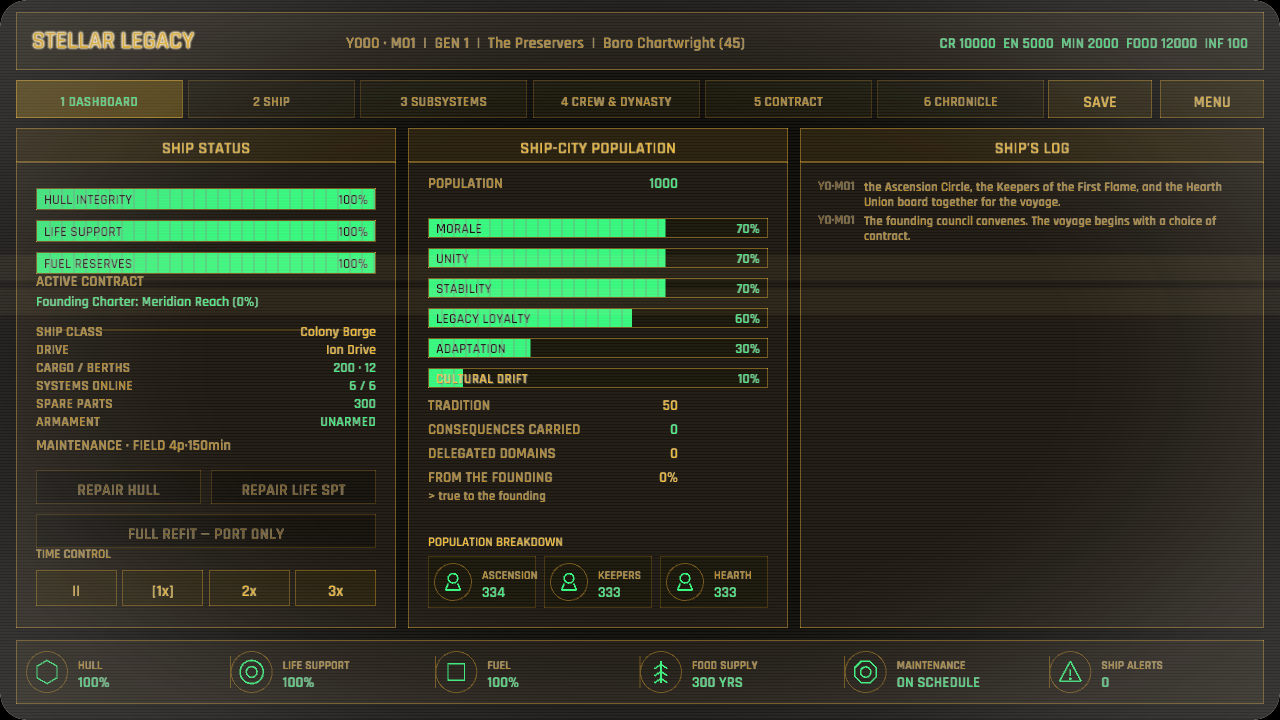
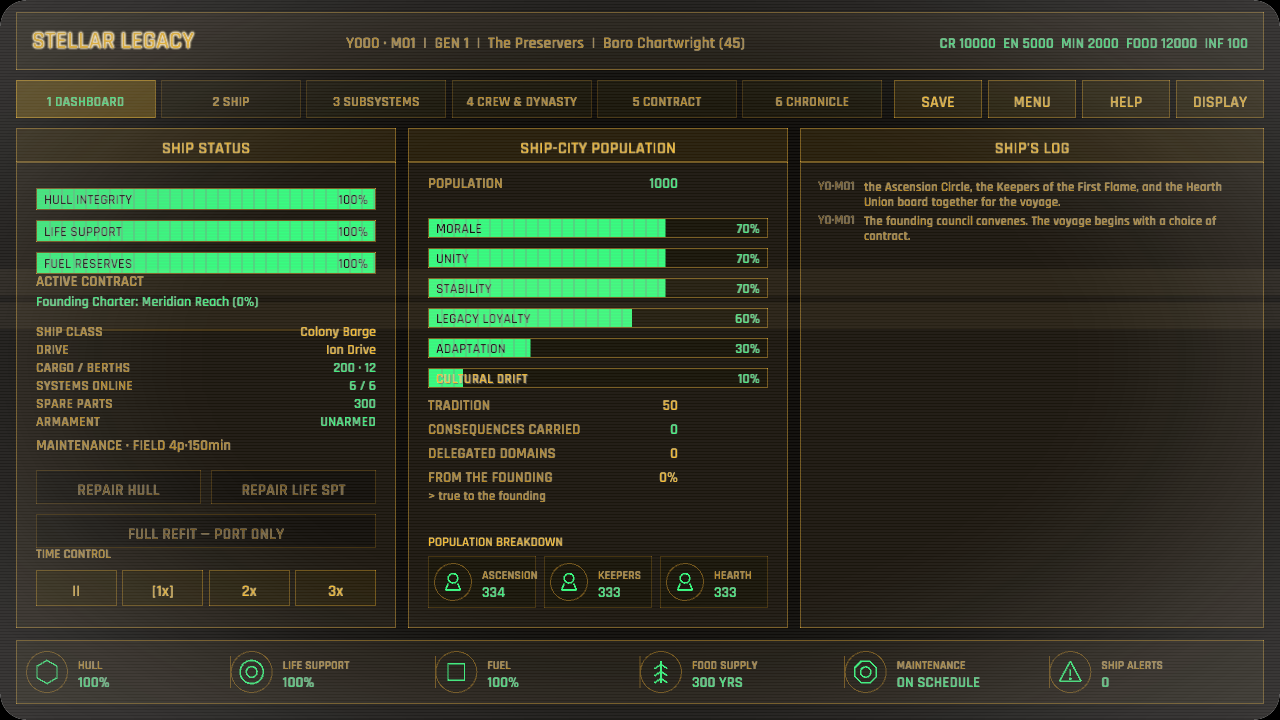
The two panels behind the function keys grow a door on the wall
Before: the display settings and the controls legend answered only to F1
and F2. A tablet has no function keys, so on an iPad neither could be
opened at all - and the display panel is not merely cosmetic, it carries
the council's delegation defaults, which decide what the ship resolves
without asking. The legend even listed the keys as the way in, which is
the one place a player would look and the one place it could not help.

After: the chrome row at the right of the tab strip carries four buttons
instead of two - SAVE, MENU, HELP, DISPLAY - each 88 wide on the same 38
tall the tabs use. The strip gives up 150 pixels for them, leaving each of
the seven in-port tabs 118; "5 CREW & DYNASTY", the longest label, still
sits inside its box.

The keys still work and are still listed, now each naming the button that
does the same thing, so the legend describes one game rather than two. The
closing line says a list can be dragged to scroll, which is the other
thing a tablet player has no way to guess.

Verified with the capture harness: ui_gameplay shows the six-tab underway
row and ui_contracts the seven-tab in-port row, both with the labels
intact. Every control on gameplay, help and contracts clears 44px at the
design width. 366 tests pass; fmt and clippy -D warnings are green.

Changed region(s): [[0.0312, 0.0917, 0.5625, 0.1833], [0.7188, 0.1222, 0.9688, 0.1528], [0.5938, 0.1222, 0.6875, 0.1528]]

diff --git a/src/ui/shell.rs b/src/ui/shell.rs
@@ -155,11 +155,17 @@ fn draw_header(ctx: &GameplayCtx<'_>) {
     );
 }
 
+/// One chrome button (SAVE / MENU / HELP / DISPLAY) at the right of the tab row.
+const CHROME_BTN_W: f32 = 88.0;
+const CHROME_GAP: f32 = 6.0;
+/// Width the four of them claim from the tab strip.
+const CHROME_W: f32 = CHROME_BTN_W * 4.0 + CHROME_GAP * 3.0;
+
 fn draw_tabs(ctx: &GameplayCtx<'_>, pointer: Pointer, actions: &mut Vec<UiAction>) {
     // The tab set changes with voyage state (real-time loop §5): DRYDOCK + MARKET
     // in port, CONTRACT under way.
     let tabs = Screen::tabs(ctx.sim.contract.is_none());
-    let total_w = LOGICAL_WIDTH - 32.0 - 220.0;
+    let total_w = LOGICAL_WIDTH - 32.0 - CHROME_W - 12.0;
     let tab_w = (total_w - (tabs.len() as f32 - 1.0) * 6.0) / tabs.len() as f32;
     for (i, screen) in tabs.iter().enumerate() {
         let rect = Rect::new(16.0 + i as f32 * (tab_w + 6.0), 80.0, tab_w, 38.0);
@@ -199,20 +205,22 @@ fn draw_tabs(ctx: &GameplayCtx<'_>, pointer: Pointer, actions: &mut Vec<UiAction
         }
     }
 
-    if term_button(
-        Rect::new(LOGICAL_WIDTH - 232.0, 80.0, 104.0, 38.0),
-        "SAVE",
-        true,
-        pointer,
-    ) {
-        actions.push(UiAction::SaveGame);
-    }
-    if term_button(
-        Rect::new(LOGICAL_WIDTH - 120.0, 80.0, 104.0, 38.0),
-        "MENU",
-        true,
-        pointer,
-    ) {
-        actions.push(UiAction::ToMenu);
+    // The chrome row: the two verbs that leave the game, and the two panels that
+    // used to answer only to F1 and F2. A tablet has no function keys, so the
+    // display settings — which carry the council's delegation defaults, not just
+    // the CRT look — and the controls legend were simply unreachable there.
+    for (i, (label, action)) in [
+        ("SAVE", UiAction::SaveGame),
+        ("MENU", UiAction::ToMenu),
+        ("HELP", UiAction::OpenHelp),
+        ("DISPLAY", UiAction::OpenSettings),
+    ]
+    .into_iter()
+    .enumerate()
+    {
+        let x = LOGICAL_WIDTH - 16.0 - CHROME_W + i as f32 * (CHROME_BTN_W + CHROME_GAP);
+        if term_button(Rect::new(x, 80.0, CHROME_BTN_W, 38.0), label, true, pointer) {
+            actions.push(action);
+        }
     }
 }

diff --git a/src/ui/help.rs b/src/ui/help.rs
@@ -1,19 +1,23 @@
-//! HELP // CONTROLS overlay (F2): a terminal-style key legend. Read-only —
-//! returns true on the frame the player asks to close it.
+//! HELP // CONTROLS overlay: a terminal-style key legend, opened by F2 or by
+//! the HELP button in the chrome row. Read-only — returns true on the frame the
+//! player asks to close it.
 
 use crate::ui::{term, term_button, term_panel, LOGICAL_HEIGHT, LOGICAL_WIDTH};
 use macroquad::prelude::*;
 use macroquad_toolkit::prelude::*;
 use macroquad_toolkit::ui::{draw_ui_text_ex, RectExt};
 
+/// Keyboard shortcuts, every one of which has a control on screen — a tablet
+/// has no function keys, so anything reachable only from this list would be
+/// unreachable there.
 const KEYS: &[(&str, &str)] = &[
     ("1 - 7", "Switch screen tabs"),
     ("SPACE / ENTER", "Advance time at the chosen speed"),
     ("1 - 9", "Choose an option in a council modal"),
-    ("F1", "Display & delegation settings"),
-    ("F2", "This help screen"),
-    ("F10", "Toggle the CRT effect"),
-    ("ESC", "Close an open panel"),
+    ("F1", "Display & delegation settings (DISPLAY)"),
+    ("F2", "This help screen (HELP)"),
+    ("F10", "Toggle the CRT effect (in DISPLAY)"),
+    ("ESC", "Close an open panel (CLOSE)"),
 ];
 
 pub fn draw(pointer: Pointer) -> bool {
@@ -52,7 +56,7 @@ pub fn draw(pointer: Pointer) -> bool {
     }
     y += 8.0;
     draw_ui_text_ex(
-        "Mouse and touch work everywhere too.",
+        "Mouse or finger works everywhere. Drag a list to scroll it.",
         content.x,
         y,
         TextStyle::new(13.0, term::faint()).params(),

diff --git a/src/ui.rs b/src/ui.rs
@@ -183,8 +183,11 @@ pub enum UiAction {
     GoToNewGame,
     /// Step back from the new-game picker to the main menu.
     BackToMainMenu,
-    /// Open the display/settings overlay from the main menu.
+    /// Open the display/settings overlay — from the main menu, or from the
+    /// gameplay chrome row where it is the only way in without an F1 key.
     OpenSettings,
+    /// Open the help/controls overlay from the gameplay chrome row (F2's twin).
+    OpenHelp,
     /// Quit the application from the main menu.
     ExitGame,
     // Global

diff --git a/src/game/actions.rs b/src/game/actions.rs
@@ -89,6 +89,13 @@ impl Game {
                 }
                 None
             }
+            UiAction::OpenHelp => {
+                // The chrome row's way into the F2 overlay, for a screen with
+                // no function keys to press.
+                self.help_open = true;
+                self.settings_open = false;
+                None
+            }
             UiAction::OpenSettings => {
                 // Reuse the shared display/settings overlay (F1) from the menu.
                 self.settings_open = true;
